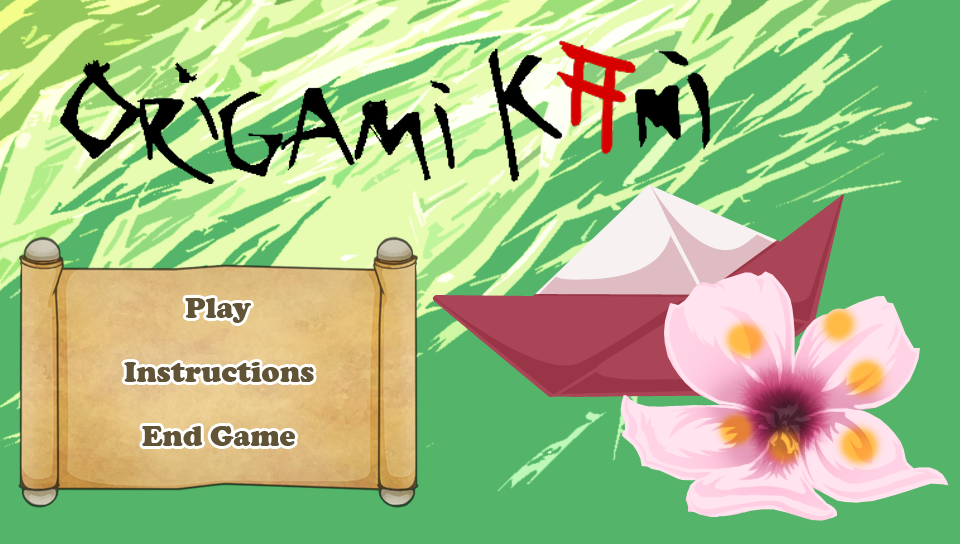
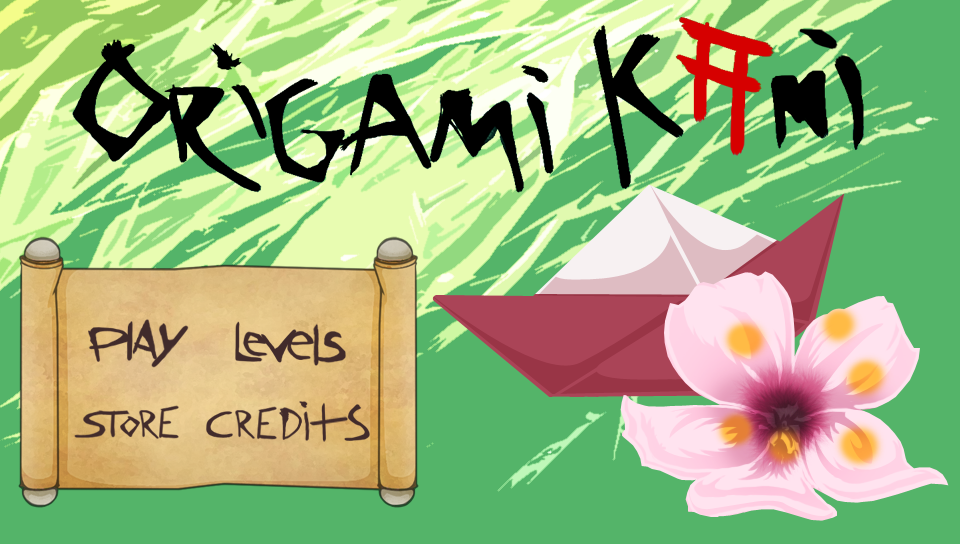
Put back correct title image, and fixed game save bug

Changed region(s): [[0.0625, 0.0312, 0.9062, 0.375], [0.0625, 0.5312, 0.4062, 0.8438], [0.2188, 0.0625, 0.25, 0.125]]

diff --git a/Core/Managers/SaveGameManager.cs b/Core/Managers/SaveGameManager.cs
@@ -76,6 +76,8 @@ namespace Core
 			if(File.Exists(save_game_temp_path))
 			{
 				//Recover from a previously corrupted state when the temp file is not moved over
+				if(File.Exists(save_game_file_path))
+						File.Delete(save_game_file_path);
 				File.Move(save_game_temp_path, save_game_file_path);
 				File.Delete(save_game_temp_path);
 			}
